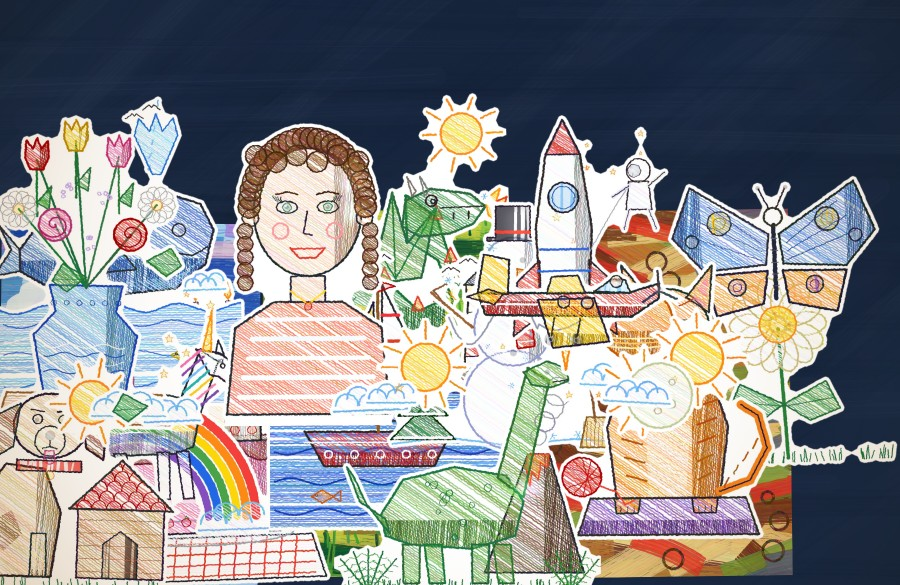
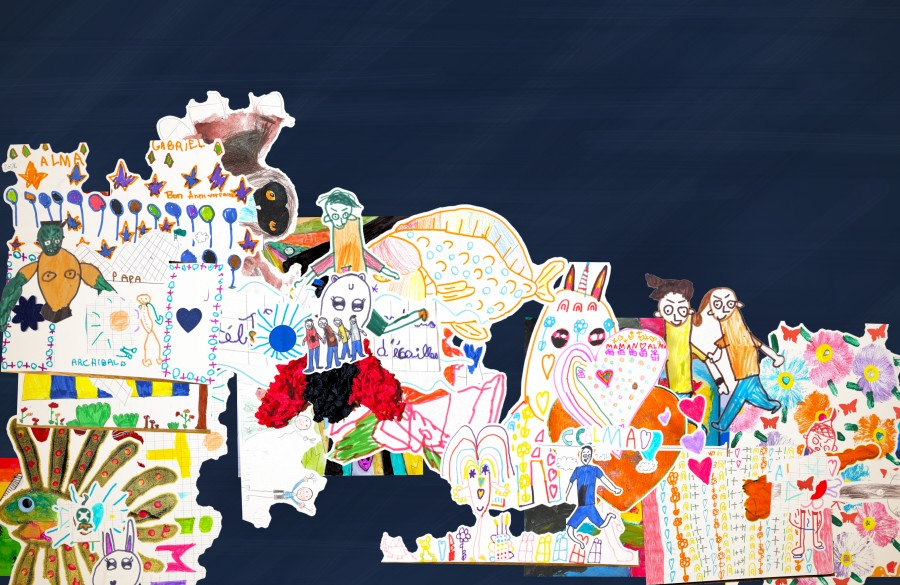
Feuille à fond blanc : toujours découpée, jamais en fond ; accueil illustré avec les vrais dessins
- une page n'est un fond que si plus de la moitié de la feuille est
  peinte : une feuille majoritairement blanche, même avec un grand sujet
  coloré, est découpée (ses personnages et objets posés) ; les feuilles
  pâles entrent découpées en montant le curseur, et ne vont en fond que
  sur le réglage « collées en fond » ;
- accueil : les sept styles recomposés avec les dessins de la vidéo
  « vos dessins » (toutes les pièces posées, toiles Cultura).

Claude-Session: https://claude.ai/code/session_016gFESkuH8R1BfGgUe59ViC

diff --git a/collage/js/app.js b/collage/js/app.js
@@ -756,24 +756,34 @@
       });
       state.paleCount = aside;
     } else {
-      const mode = allIn() ? 'fond' : paleMode;
-      const share = mode === 'fond' ? 1 : clamp((t - 0.5) / 0.5, 0, 1);
+      // une feuille pâle a un fond blanc : quand elle entre dans l'œuvre, c'est découpée (ses sujets
+      // posés), jamais en fond, sauf si l'utilisateur a choisi « collées en fond » ; au maximum du
+      // curseur, toutes entrent (une page qui n'est que de l'écriture reste de côté)
+      const asBg = paleMode === 'fond';
+      const share = asBg || allIn() ? 1 : clamp((t - 0.5) / 0.5, 0, 1);
       const nPaleLeft = Math.round(paleLeft.length * share);
       const colorfulOf = (d) => { const a = d.analysis; return (a.texture || a.texStats || (a.texStats = Extract.textureStats(a.page))).colorful || 0; };
       paleLeft.slice().sort((a, b) => colorfulOf(b) - colorfulOf(a))
-        .forEach((d, i) => { d.auto = i < nPaleLeft ? 'texture' : 'off'; if (d.auto === 'texture') ensureMaterial(d); });
-      state.paleCount = paleLeft.length;
+        .forEach((d, i) => {
+          if (i >= nPaleLeft) { d.auto = 'off'; return; }
+          if (asBg) { d.auto = 'texture'; ensureMaterial(d); return; }
+          if (d.textOnly === undefined) d.textOnly = Extract.textOnly(d.analysis.page);
+          const text = d.ai && d.ai.texte !== undefined ? d.ai.texte : d.textOnly;
+          d.auto = text ? 'off' : 'cutout';
+          if (d.auto === 'cutout') ensureMaterial(d);
+        });
+      state.paleCount = paleLeft.filter((d) => d.auto === 'off').length;
     }
-    // seules les pages franchement peintes ou colorées peuvent faire le fond (comme sur l'exemple) ;
-    // une feuille blanche avec un petit dessin reste une découpe
+    // seules les pages franchement peintes (plus de la moitié de la feuille couverte) peuvent faire le
+    // fond ; une feuille au fond majoritairement blanc est toujours découpée : ses personnages et ses
+    // objets sont posés sur l'œuvre, jamais la feuille entière collée derrière
     const bgEligible = (d) => {
       const a = d.analysis;
-      const t = a.texture || a.texStats || (a.texStats = Extract.textureStats(a.page));
       const painted = 1 - (a.paperFrac === undefined ? 0.5 : a.paperFrac);
       // un sujet net et coloré (une bougie photographiée sur du parquet) reste une découpe
       const main = (a.pieces || []).reduce((x, b) => (!x || b.frac > x.frac ? b : x), null);
       if (a.kind === 'cutout' && (a.paperFrac || 0) >= 0.3 && main && main.frac > 0.25 && main.colorful > 0.35) return false;
-      return painted >= 0.5 || (painted >= 0.33 && (t.colorful || 0) >= 0.3);
+      return painted >= 0.5;
     };
     const rest = cands.filter((d) => !paleOnes.includes(d));
     rest.forEach((d) => { if (!bgEligible(d) || (d.photo && !d.photo.sheet && d.photoMode !== 'keep')) d.auto = 'cutout'; });

diff --git a/collage/js/extract.js b/collage/js/extract.js
@@ -1957,9 +1957,10 @@
     result.pieces = cutPieces(src, seg);
     result.cut = { paper: seg.paper, weakT: seg.weakT, strongT: seg.strongT };
     // page peinte (aquarelle, gouache, gribouillage qui couvre la feuille) : la découpe principale
-    // engloberait presque toute la page, bords déchiquetés ; c'est un fond, pas une découpe
+    // engloberait presque toute la page, bords déchiquetés ; c'est un fond, pas une découpe. Une
+    // feuille au fond majoritairement blanc reste une découpe : ses sujets sont faits pour être posés.
     const bigFrac = result.pieces.reduce((m, q) => Math.max(m, q.frac), 0);
-    if (!result.pieces.length || (bigFrac > 0.55 && seg.paperFrac < 0.72)) {
+    if (!result.pieces.length || (bigFrac > 0.55 && seg.paperFrac < 0.5)) {
       result.pieces.forEach((q) => release(q.canvas));
       result.pieces = null;
       result.kind = 'texture';

diff --git a/collage/README.md b/collage/README.md
@@ -44,7 +44,9 @@ cd collage && python3 -m http.server 8000
      un contour **lisse** : les petites dents et encoches (≈ 2 mm) sont gommées et les angles
      arrondis, sans jamais entamer l'encre (≈ 1 mm de papier garanti autour d'elle).
      Une page couverte de peinture (la découpe principale engloberait plus de la moitié de la page,
-     papier minoritaire) est un fond, pas une découpe géante aux bords déchiquetés. Les seuils
+     moins de la moitié de papier visible) est un fond, pas une découpe géante aux bords déchiquetés ;
+     une feuille au **fond majoritairement blanc** est toujours une découpe (ses personnages et ses
+     objets sont posés sur l'œuvre), jamais une page de fond, sauf rôle choisi à la main. Les seuils
      d'encre s'adaptent au dessin : sur un scan propre un crayon pâle reste séparé du grain du
      papier, et si la première passe ne trouve que des miettes éparses, une seconde passe à seuils
      plus bas relie les traits de plus loin. Les toutes petites pièces ternes (ombre d'un pli, bord
@@ -109,12 +111,13 @@ cd collage && python3 -m http.server 8000
    - chaque page de fond est utilisée UNE SEULE FOIS et EN ENTIER, **sans être découpée** : la feuille
      est collée telle quelle, les pages se chevauchent et ce qui dépasse de la toile se rogne à la pose ;
      seule une page plus grande que la toile est réduite, et son surplus déchiré en lambeaux ;
-   - **le style de l'œuvre de référence** : le fond n'est fait que de pages franchement peintes ou
-     colorées (une feuille blanche avec un petit dessin, ou un sujet net entouré de papier, reste une
-     découpe) ; les feuilles pâles (crayon gris, texte) sont mises de côté par défaut, sauf celles
-     où Claude reconnaît un vrai sujet (nuage, bonhomme au crayon), découpées comme les autres ; un
-     réglage permet de toutes les découper (les pages d'écriture seule, aux lignes de texte
-     régulières, restant de côté) ou de les coller en fond (c'est
+   - **le style de l'œuvre de référence** : le fond n'est fait que de pages franchement peintes
+     (plus de la moitié de la feuille couverte) ; une feuille au fond blanc, même avec un grand
+     dessin coloré, est découpée, jamais collée entière derrière ; les feuilles pâles (crayon gris,
+     texte) sont mises de côté par défaut, sauf celles où Claude reconnaît un vrai sujet (nuage,
+     bonhomme au crayon), découpées comme les autres ; en montant le curseur elles entrent, découpées
+     (les pages d'écriture seule, aux lignes de texte régulières, restant de côté) ; un réglage
+     permet de toutes les découper ou de les coller en fond (c'est
      alors signalé dans le panneau, sur le cartel et sur la couverture du guide) ou de les coller en
      fond ; les pages de fond restent entières ;
    - **œuvre en cours** gardée d'elle-même dans le navigateur (dessins, réglages, mise en place) et
@@ -194,7 +197,7 @@ cd collage && python3 -m http.server 8000
      règle le nombre de sujets posés, des plus forts aux plus faibles, de 20 % au minimum jusqu'à tous ;
    - **curseur au maximum** : tous les dessins chargés entrent dans l'œuvre — plus de plafond de
      couverture, un sujet sans place libre se pose au moins mauvais endroit, et les feuilles pâles
-     rejoignent le fond ; la rotation des découpes est fixe (réglage retiré) ;
+     sont découpées comme les autres ; la rotation des découpes est fixe (réglage retiré) ;
    - **résolution d'import** : chaque page est conservée à la plus haute résolution que l'appareil
      permet (de 1400 à 2800 px de grand côté, 2000 sur téléphone), calculée d'après le nombre de pages
      et la mémoire disponible ; l'analyse des sujets se fait sur une grille réduite, mais les découpes
